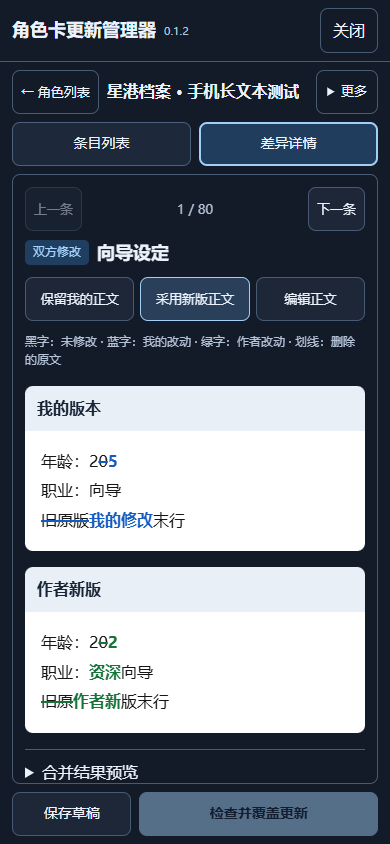
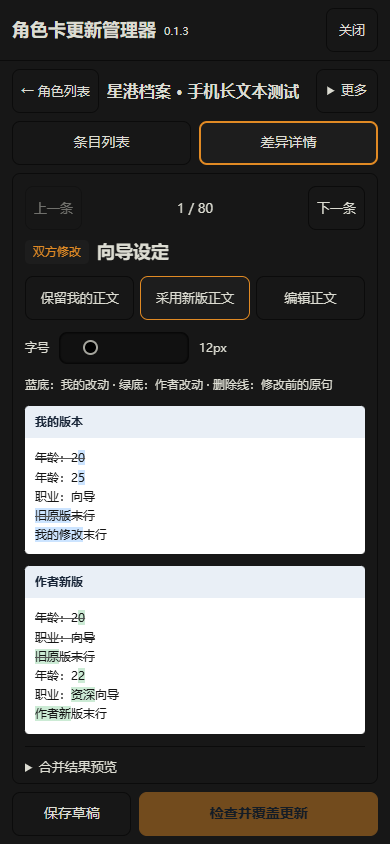
Improve native theme integration, sentence diffs and character update entry

Changed region(s): [[0.0308, 0.0, 0.9846, 1.0], [0.4308, 0.0308, 0.4923, 0.0616]]

diff --git a/ui.js b/ui.js
@@ -1,4 +1,4 @@
-import {copy,entriesOf,matchEntries,buildRows,LABELS,selectedEntry,assembleWorld,toCharacterBook,normalizeCardWorld,textDiff} from './core.js';
+import {copy,entriesOf,matchEntries,buildRows,LABELS,selectedEntry,assembleWorld,toCharacterBook,normalizeCardWorld,sentenceDiff} from './core.js';
 import {readCardFile,packCard,download,bytesToBase64,base64ToBytes,parseJSON} from './card.js';
 import {applyUpdate} from './host.js';
 
@@ -37,8 +37,8 @@ function hydrate(value){
 
 export class Manager {
     constructor(host,store){this.host=host;this.store=store;this.state={};this.busy=false;}
-    async open(){
-        if(this.dialog?.open){this.dialog.focus();return;}
+    async open(card){
+        if(this.dialog?.open){if(card)await this.run(()=>this.selectCard(card));this.dialog.focus();return;}
         this.previousFocus=document.activeElement;
         this.dialog=el('dialog',{class:'cum-dialog','aria-labelledby':'cum-title'});
         this.dialog.addEventListener('cancel',e=>{if(this.busy)e.preventDefault();});
@@ -46,10 +46,10 @@ export class Manager {
         this.message=el('div',{class:'cum-message',role:'status','aria-live':'polite'});
         this.content=el('main',{class:'cum-content'});
         this.shell=el('div',{class:'cum-shell'},
-            el('header',{class:'cum-header'},el('div',{},el('span',{class:'cum-eyebrow'},'CARD UPDATE MANAGER'),el('h2',{id:'cum-title'},'角色卡更新管理器',el('span',{class:'cum-version'},'0.1.2'))),
+            el('header',{class:'cum-header'},el('div',{},el('span',{class:'cum-eyebrow'},'CARD UPDATE MANAGER'),el('h2',{id:'cum-title'},'角色卡更新管理器',el('span',{class:'cum-version'},'0.1.3'))),
                 button('关闭',()=>{if(!this.busy)this.dialog.close();},{class:'cum-quiet'})),this.message,this.content);
         this.dialog.append(this.shell);document.body.append(this.dialog);this.dialog.showModal();
-        await this.run(()=>this.home());
+        const pref=await this.store.get('@preferences');this.fontSize=Math.min(20,Math.max(10,Number(pref?.fontSize)||12));this.dialog.style.setProperty('--cum-reading-size',this.fontSize+'px');await this.run(()=>card?this.selectCard(card):this.home());
     }
     async run(task){
         if(this.busy)return;
@@ -179,12 +179,27 @@ export class Manager {
         const panel=el('section',{class:'cum-text-panel cum-text-'+side,'aria-label':label},el('h4',{},label));
         const paper=el('div',{class:'cum-paper'});
         if(!value)panel.append(el('p',{},base?'此版本已删除该条目，划线内容为删除的原文。':'此版本中没有该条目。'));
-        for(const part of textDiff(base?.content??'',value?.content??'')){
-            const node=el(part.kind==='remove'?'del':part.kind==='add'?'ins':'span',{class:'cum-text-'+part.kind},part.text);
-            paper.append(node);
+        for(const block of sentenceDiff(base?.content??'',value?.content??'')){
+            if(block.kind==='same'){paper.append(el('span',{class:'cum-text-same'},block.text));continue;}
+            for(const [kind,text] of [['remove',block.old],['add',block.next]]){
+                if(!text)continue;
+                const sentence=el(kind==='remove'?'del':'ins',{class:'cum-sentence cum-text-'+kind});
+                for(const part of block.parts){
+                    if(part.kind===(kind==='remove'?'add':'remove'))continue;
+                    sentence.append(el('span',{class:part.kind==='same'?'cum-text-same':'cum-highlight'},part.text));
+                }
+                paper.append(sentence);
+            }
         }
         if(!paper.textContent)paper.append(el('span',{class:'cum-text-same'},'（空正文）'));
         panel.append(paper);return panel;
+    }
+    fontControl(){
+        const output=el('output',{},this.fontSize+'px');
+        const input=el('input',{type:'range',min:'10',max:'20',step:'1',value:String(this.fontSize),'aria-label':'对比字号'});
+        input.addEventListener('input',()=>{this.fontSize=Number(input.value);output.textContent=this.fontSize+'px';this.dialog.style.setProperty('--cum-reading-size',this.fontSize+'px');});
+        input.addEventListener('change',()=>{this.store.put('@preferences',{fontSize:this.fontSize}).catch(e=>this.say('字号保存失败：'+e.message));});
+        return el('label',{class:'cum-font-control'},'字号',input,output);
     }
     drawDetail(){
         const s=this.state,r=s.rows[s.selected];this.detail.replaceChildren();
@@ -194,7 +209,7 @@ export class Manager {
         this.detail.append(el('div',{class:'cum-entry-nav'},button('上一条',()=>this.selectEntry(this.visibleRows[at-1]),{disabled:at<=0}),el('span',{},`${at+1} / ${this.visibleRows.length}`),button('下一条',()=>this.selectEntry(this.visibleRows[at+1]),{disabled:at>=this.visibleRows.length-1})),
             el('div',{class:'cum-detail-heading'},el('span',{class:'cum-badge'},LABELS[r.type]),el('h3',{},r.title)),
             el('div',{class:'cum-actions'},button(r.mine?'保留我的正文':'保留我的删除',()=>choose('mine'),{'aria-pressed':String(r.choice==='mine')}),button(r.next?'采用新版正文':'接受新版删除',()=>choose('next'),{'aria-pressed':String(r.choice==='next')}),r.mine||r.next?button('编辑正文',()=>this.editFields(r)):null),
-            el('p',{class:'cum-text-legend'},'黑字：未修改 · 蓝字：我的改动 · 绿字：作者改动 · 划线：删除的原文'),
+            this.fontControl(),el('p',{class:'cum-text-legend'},'蓝底：我的改动 · 绿底：作者改动 · 删除线：修改前的原句'),
             this.textPanel('我的版本',r.base,r.mine,'mine'),
             this.textPanel('作者新版',r.base,r.next,'author'));
         const entry=r.choice?selectedEntry(r):undefined;

diff --git a/style.css b/style.css
@@ -112,15 +112,29 @@
 
 /* The settings entry is outside the modal: never inherit the narrow icon-button rules. */
 #cum-launcher { display: block !important; width: 100% !important; min-width: 0 !important; flex: 0 0 auto !important; align-self: stretch !important; height: auto !important; min-height: 0 !important; box-sizing: border-box !important; padding: 8px 0 !important; }
-#cum-launcher #cum-open { display: block !important; width: 100% !important; max-width: none !important; min-width: 0 !important; height: auto !important; min-height: 48px !important; box-sizing: border-box !important; padding: 12px 16px !important; margin: 0 !important; writing-mode: horizontal-tb !important; white-space: normal !important; word-break: normal !important; overflow-wrap: normal !important; text-align: left !important; font: 16px/1.5 system-ui, sans-serif !important; letter-spacing: normal !important; color: #182537 !important; background: #edf4fc !important; border: 1px solid #8a9db5 !important; border-radius: 8px !important; cursor: pointer !important; text-shadow: none !important; }
+#cum-launcher #cum-open {width:100%!important;max-width:none!important;writing-mode:horizontal-tb!important;word-break:normal!important;white-space:normal!important;min-height:44px;}
+#cum-launcher > .inline-drawer-header {width:100%;box-sizing:border-box;}
+
 .cum-dialog .cum-text-legend { font-size: 12px; margin: 12px 0; }
 .cum-dialog .cum-text-panel { display: block; width: 100%; margin: 16px 0; }
 .cum-dialog .cum-text-panel h4 { margin: 0; padding: 10px 12px; color: #182537; background: #e9eff6; border-radius: 8px 8px 0 0; }
 .cum-dialog .cum-text-panel .cum-paper { display: block; box-sizing: border-box; padding: 16px; background: #fff !important; color: #151515 !important; white-space: pre-wrap !important; overflow-wrap: anywhere; word-break: break-word; font: 16px/1.85 system-ui, 'Microsoft YaHei', sans-serif; text-shadow: none !important; border-radius: 0 0 8px 8px; }
 .cum-dialog .cum-paper .cum-text-same { color: #151515 !important; background: transparent !important; text-decoration: none !important; }
-.cum-dialog .cum-paper ins { background: transparent !important; text-decoration: none !important; font-weight: 600; }
-.cum-dialog .cum-text-mine .cum-paper ins { color: #145cc1 !important; }
-.cum-dialog .cum-text-author .cum-paper ins { color: #16733a !important; }
-.cum-dialog .cum-paper del { color: #151515 !important; background: transparent !important; text-decoration-line: line-through !important; text-decoration-thickness: 2px !important; }
-.cum-dialog .cum-text-mine .cum-paper del { text-decoration-color: #145cc1 !important; }
-.cum-dialog .cum-text-author .cum-paper del { text-decoration-color: #16733a !important; }
+
+.cum-dialog,.cum-confirm{--cum-bg:var(--SmartThemeBlurTintColor,#f7f7f7);--cum-panel:var(--SmartThemeChatTintColor,#fff);--cum-text:var(--SmartThemeBodyColor,#222);--cum-muted:var(--SmartThemeBodyColor,#555);--cum-border:var(--SmartThemeBorderColor,#ccc);--cum-accent:var(--SmartThemeQuoteColor,#487eac);--cum-button:var(--SmartThemeBotMesBlurTintColor,#e9edf0);color-scheme:normal;backdrop-filter:blur(16px);font-size:13px;border-radius:10px;}
+.cum-dialog .cum-eyebrow{display:none}
+.cum-dialog .cum-header{padding:12px 16px}
+.cum-dialog h2{font-size:18px}
+.cum-dialog button:hover,.cum-confirm button:hover{background:var(--cum-button)}
+.cum-dialog .cum-text-panel{margin:12px 0}
+.cum-dialog .cum-text-panel h4{font:600 12px/1.5 system-ui,sans-serif;padding:7px 10px;border-radius:4px 4px 0 0}
+.cum-dialog .cum-text-panel .cum-paper,.cum-dialog .cum-result-content{font:var(--cum-reading-size,12px)/1.6 system-ui,'Microsoft YaHei',sans-serif!important;padding:10px;border-radius:0 0 4px 4px;-webkit-text-size-adjust:100%;text-size-adjust:100%;}
+.cum-dialog .cum-paper *{font:inherit!important;color:#151515!important;text-shadow:none!important}
+.cum-dialog .cum-paper .cum-sentence{display:block;background:transparent!important;font-weight:normal;text-decoration:none}
+.cum-dialog .cum-paper del.cum-sentence{text-decoration:line-through!important;text-decoration-thickness:1px!important;text-decoration-color:#555!important}
+.cum-dialog .cum-text-mine .cum-highlight{background:#cce4ff!important}
+.cum-dialog .cum-text-author .cum-highlight{background:#ccebd5!important}
+.cum-dialog .cum-font-control{display:flex;align-items:center;gap:10px;font-size:12px;margin:12px 0 4px}
+.cum-dialog .cum-font-control input{width:130px;min-height:32px;padding:0;accent-color:var(--cum-accent)}
+.cum-dialog .cum-font-control output{min-width:32px}
+@media(max-width:760px){.cum-dialog{border-radius:0}.cum-dialog .cum-header{padding:8px 12px}}

diff --git a/index.js b/index.js
@@ -3,18 +3,32 @@ import {Storage} from './storage.js';
 import {Manager} from './ui.js';
 
 let manager;
-async function open(){
+async function open(card){
     try{
         if(!manager){const host=await connectHost();manager=new Manager(host,new Storage(host.account));}
-        await manager.open();
+        await manager.open(card?.avatar?card:undefined);
     }catch(error){console.error('[Card Update Manager]',error);globalThis.toastr?.error(error.message,'角色卡更新管理器');}
 }
 function install(){
     if(document.getElementById('cum-open'))return;
     const target=document.querySelector('#extensions_settings2')??document.querySelector('#extensions_settings');
     if(!target){setTimeout(install,1000);return;}
-    const block=document.createElement('div');block.id='cum-launcher';
-    const button=document.createElement('button');button.id='cum-open';button.type='button';button.textContent='角色卡更新管理器';button.addEventListener('click',open);block.append(button);target.append(block);
+    const block=document.createElement('div');block.id='cum-launcher';block.className='inline-drawer';
+    const header=document.createElement('div');header.className='inline-drawer-toggle inline-drawer-header';
+    const title=document.createElement('b');title.textContent='角色卡更新管理器';
+    const icon=document.createElement('div');icon.className='inline-drawer-icon fa-solid fa-circle-chevron-down down';header.append(title,icon);
+    const content=document.createElement('div');content.className='inline-drawer-content';
+    const button=document.createElement('button');button.id='cum-open';button.className='menu_button';button.type='button';button.textContent='打开更新管理器';button.addEventListener('click',()=>open());content.append(button);block.append(header,content);target.append(block);
+    const replace=document.querySelector('#replace_update');
+    if(replace){
+        const option=document.createElement('option');option.id='cum-character-update';option.value='cum-character-update';option.textContent='对比并更新';replace.after(option);
+        replace.parentElement.addEventListener('change',async e=>{
+            if(e.target.value!=='cum-character-update')return;
+            e.stopImmediatePropagation();e.target.value='default';
+            try{const script=await import('/script.js');const card=script.characters[script.this_chid];if(!card?.avatar)throw Error('请先选择角色卡');await open({name:card.name,avatar:card.avatar});}
+            catch(error){globalThis.toastr?.error(error.message);}
+        },true);
+    }
     const menu=document.querySelector('#extensionsMenu');
     if(menu){const entry=document.createElement('div');entry.className='list-group-item flex-container flexGap5';entry.tabIndex=0;entry.role='button';entry.textContent='角色卡更新管理器';entry.addEventListener('click',open);entry.addEventListener('keydown',e=>{if(['Enter',' '].includes(e.key)){e.preventDefault();open();}});menu.append(entry);}
 }

diff --git a/tests/core.test.js b/tests/core.test.js
@@ -1,6 +1,6 @@
 import test from 'node:test';
 import assert from 'node:assert/strict';
-import {buildRows,matchEntries,assembleWorld,selectedEntry,cleanEntry,toCharacterBook,normalizeCardWorld,lineDiff,textDiff} from '../core.js';
+import {buildRows,matchEntries,assembleWorld,selectedEntry,cleanEntry,toCharacterBook,normalizeCardWorld,lineDiff,textDiff,sentenceDiff} from '../core.js';
 const entry=(comment,content,extra={})=>({uid:0,comment,content,key:[comment],disable:false,order:100,extensions:{},...extra});
 test('三方分类和默认选择：作者、玩家、双方、相同改动',()=>{
  const base=[entry('a','old'),entry('b','old'),entry('c','old'),entry('d','old')];
@@ -61,4 +61,13 @@ test('内联差异保留原文和换行；不变文本无着色段',()=>{
  }
  const same='一样\n'.repeat(5000);assert.deepEqual(textDiff(same,same),[{kind:'same',text:same}]);
  assert.deepEqual(textDiff('ABC DEF','ABC DEG'),[{kind:'same',text:'ABC DE'},{kind:'remove',text:'F'},{kind:'add',text:'G'}]);
+});
+
+test('句子对照保留完整旧句和原始换行，未修改句不高亮',()=>{
+ const before='不变。年龄20岁。\n职业：向导',after='不变。年龄25岁。\n职业：向导';
+ const parts=sentenceDiff(before,after);
+ assert.equal(parts.map(p=>p.kind==='same'?p.text:p.old).join(''),before);
+ assert.equal(parts.map(p=>p.kind==='same'?p.text:p.next).join(''),after);
+ assert.equal(parts.find(p=>p.kind==='change').old,'年龄20岁。');
+ assert.deepEqual(sentenceDiff(before,before),[{kind:'same',text:before}]);
 });

diff --git a/core.js b/core.js
@@ -204,6 +204,17 @@ function sequenceDiff(a,b){
     if(end)add('same',a.slice(a.length-end).join(''));
     return out;
 }
+export function sentenceDiff(before='',after=''){
+    const tokens=t=>t.match(/[^。！？!?\n]+[。！？!?\n]?|[。！？!?\n]/g)??[];
+    const parts=sequenceDiff(tokens(before),tokens(after)),out=[];
+    for(let i=0;i<parts.length;){
+        if(parts[i].kind==='same'){out.push(parts[i++]);continue;}
+        let old='',next='';
+        while(i<parts.length&&parts[i].kind!=='same'){if(parts[i].kind==='remove')old+=parts[i].text;else next+=parts[i].text;i++;}
+        out.push({kind:'change',old,next,parts:textDiff(old,next)});
+    }
+    return out;
+}
 export function textDiff(before='',after=''){
     if(before===after)return before?[{kind:'same',text:before}]:[];
     const tokens=t=>t.match(/[^\n]*\n|[^\n]+$/g)??[];

diff --git a/README.md b/README.md
@@ -2,7 +2,7 @@
 
 在 SillyTavern 中先比较作者新版与个人修改，选择保留内容，再覆盖更新角色卡。
 
-**0.1.2 首版预览**。独立前端扩展，不依赖酒馆助手，不需要额外模型 API 或服务器插件。
+**0.1.3 首版预览**。独立前端扩展，不依赖酒馆助手，不需要额外模型 API 或服务器插件。
 
 ![使用虚构测试卡展示的差异面板](docs/preview.png)
 
@@ -16,10 +16,10 @@
 https://github.com/adelia1017/sillytavern-card-update-manager
 ```
 
-安装后刷新页面，从「扩展设置 → 角色卡更新管理器」打开，也可从聊天区的扩展菜单进入。
+安装后刷新页面，从「扩展设置 → 角色卡更新管理器」打开，也可从聊天区的扩展菜单进入，或在角色详情「更多 → 对比并更新」直接打开该角色。
 后续通过酒馆扩展管理中的更新按钮获取更新，再刷新页面。不需要 npm install 或编译。
 
-手机端点击条目进入详情：上方显示「我的版本」，下方显示「作者新版」，两者分别对照作者旧原版。未修改文字是黑色，我的新增/修改是蓝色，作者新增/修改是绿色，删除的原文带删除线。更新并刷新后，标题旁应显示 `0.1.2`。
+手机端点击条目进入详情：上方显示「我的版本」，下方显示「作者新版」，两者分别对照作者旧原版。未修改文字是黑色，文字均为黑色，我的改动用蓝底、作者改动用绿底标记；保留修改前的完整原句并加删除线。正文默认 12px，可用字号滑块调整并记忆。更新并刷新后，标题旁应显示 `0.1.3`。
 
 只比较和合并正文。开关、蓝绿灯、关键词、顺序等配置不计入差异，也不随正文选择迁移，已有条目采用作者新版配置；只在个人版本存在的新增条目保留其配置。
 
@@ -84,7 +84,7 @@ npm test
 
 其他酒馆版本尚未实测。接口适配集中在 `host.js`。
 
-0.1.2 的 `tests/mobile.mjs` 在 320×568、360×640、390×844、430×932、844×390 和 1440×1000 的 Chrome 浏览器视口中检查列表/详情切换、上下正文顺序与黑蓝绿色、配置变化被忽略、删除前正文、长文滚动及固定操作区；测试使用虚构内存数据，不写入酒馆角色卡。尚未在真实 iOS Safari 设备上验证。
+0.1.3 的 `tests/mobile.mjs` 在 320×568、360×640、390×844、430×932、844×390 和 1440×1000 的 Chrome 浏览器视口中检查列表/详情切换、上下正文顺序与黑蓝绿色、配置变化被忽略、删除前正文、长文滚动及固定操作区；测试使用虚构内存数据，不写入酒馆角色卡。尚未在真实 iOS Safari 设备上验证。
 
 ## 文件结构
 
